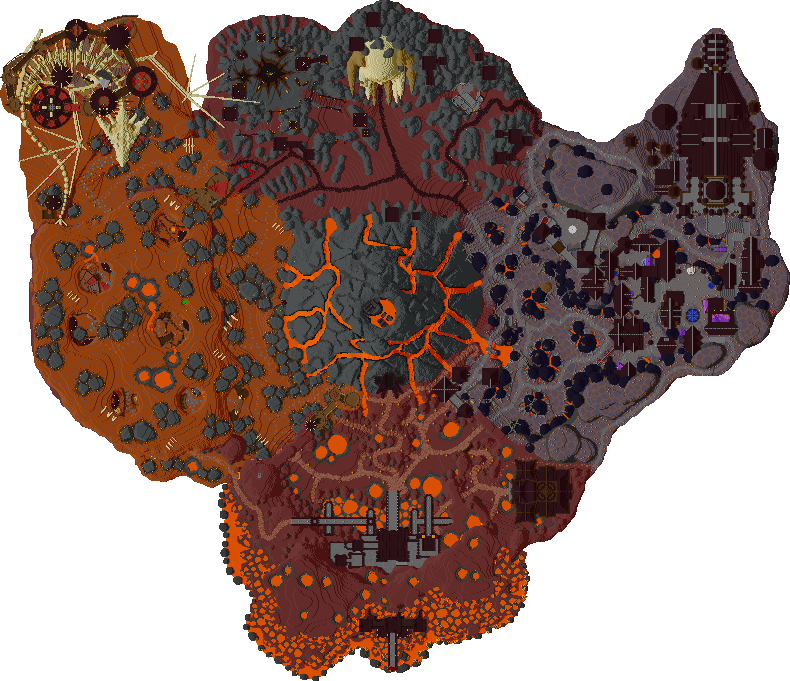
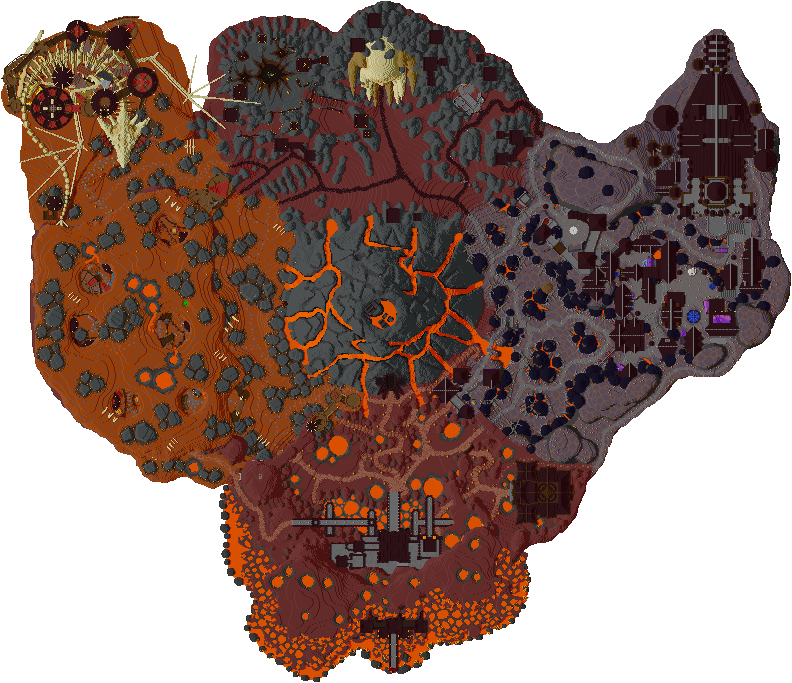
dungeons hub map + 1px margins

diff --git a/src/main/java/com/thatgravyboat/skyblockhud/handlers/MapHandler.java b/src/main/java/com/thatgravyboat/skyblockhud/handlers/MapHandler.java
@@ -66,12 +66,13 @@ public class MapHandler {
         HUB(0.5f, 494, 444, 294, 218, 294, 224, new ResourceLocation("skyblockhud", "maps/hub.png"), HubIcons.hubIcons),
         MUSHROOM(1.0f, 318, 316, -84, 605, -84, 612, new ResourceLocation("skyblockhud", "maps/mushroom.png"), Collections.emptyList()),
         SPIDERS(1.0f, 270, 238, 400, 362, 400, 364, new ResourceLocation("skyblockhud", "maps/spidersden.png"), Collections.emptyList()),
-        CRIMSON(0.5f, 790, 681, 752, 1070, 750, 1083, new ResourceLocation("skyblockhud", "maps/crimson.png"), Collections.emptyList()),
+        CRIMSON(0.5f, 792, 683, 752, 1070, 750, 1083, new ResourceLocation("skyblockhud", "maps/crimson.png"), Collections.emptyList()),
         BARN(1.5f, 135, 130, -82, 320, -81, 318, new ResourceLocation("skyblockhud", "maps/barn.png"), Collections.emptyList()),
         DWARVEN(0.5f, 409, 461, 206, 160, 202, 166, new ResourceLocation("skyblockhud", "maps/dwarven.png"), DwarvenIcons.dwarvenIcons),
         CRYSTAL(0.5f, 624, 624, -202, -215.7, -202, -212, new ResourceLocation("skyblockhud", "maps/crystal.png"), Collections.emptyList()),
         PARK(1f, 211, 230, 480, 133, 478, 134, new ResourceLocation("skyblockhud", "maps/park.png"), Collections.emptyList()),
-        THEEND(1f, 336, 281, 787, 403, 788, 406, new ResourceLocation("skyblockhud", "maps/end.png"), Collections.emptyList());
+        THEEND(1f, 338, 283, 787, 403, 788, 406, new ResourceLocation("skyblockhud", "maps/end.png"), Collections.emptyList()),
+        DN(.5f, 342, 436, 338, 186, 788, 406, new ResourceLocation("skyblockhud", "maps/dn.png"), Collections.emptyList());
 
         public float scaleFactor;
         public int width;

diff --git a/src/main/java/com/thatgravyboat/skyblockhud/config/SBHConfig.java b/src/main/java/com/thatgravyboat/skyblockhud/config/SBHConfig.java
@@ -316,8 +316,8 @@ public class SBHConfig extends Config {
 
         @Expose
         @ConfigOption(name = "Map Locations", desc = "Remove a location from this list if you would like the map to not show up in that location. This is so you can use other mods maps.")
-        @ConfigEditorDraggableList(exampleText = { "HUB", "BARN", "MUSHROOMDESERT", "GOLDMINE (No Map Yet)", "DEEPCAVERNS (No Map Yet)", "SPIDERSDEN", "PARK", "CRIMSON", "DUNGEONHUB (No Map Yet)", "JERRY (No Map Yet)", "THEEND", "DWARVENMINES", "CRYSTALHOLLOWS" })
-        public List<Integer> mapLocations = new ArrayList<>(Arrays.asList(0, 1, 2, 5, 6, 7, 10, 11));
+        @ConfigEditorDraggableList(exampleText = { "HUB", "BARN", "MUSHROOMDESERT", "GOLDMINE (No Map Yet)", "DEEPCAVERNS (No Map Yet)", "SPIDERSDEN", "PARK", "CRIMSON", "DUNGEONHUB", "JERRY (No Map Yet)", "THEEND", "DWARVENMINES", "CRYSTALHOLLOWS" })
+        public List<Integer> mapLocations = new ArrayList<>(Arrays.asList(0, 1, 2, 5, 6, 7, 8, 10, 11));
 
         @Expose
         @ConfigOption(name = "Mini-Map Position", desc = "Allows you to change the position of the Mini-Map.")

diff --git a/src/main/java/com/thatgravyboat/skyblockhud/location/Locations.java b/src/main/java/com/thatgravyboat/skyblockhud/location/Locations.java
@@ -111,9 +111,9 @@ public enum Locations {
     AURASLAB("auraslab", "Aura's Lab", LocationCategory.CRIMSON),
     COURTYARD("courtyard", "Courtyard", LocationCategory.CRIMSON),
     //DUNGEONS
-    DUNGEONHUB("dungeonhub", "Dungeon Hub", LocationCategory.DUNGEONHUB),
-    CATACOMBS("catacombs", "The Catacombs", LocationCategory.DUNGEONHUB),
-    CATACOMBSENTRANCE("catacombsentrance", "Catacombs Entrance", LocationCategory.DUNGEONHUB),
+    DUNGEONHUB("dungeonhub", "Dungeon Hub", LocationCategory.DN),
+    CATACOMBS("catacombs", "The Catacombs", LocationCategory.DN),
+    CATACOMBSENTRANCE("catacombsentrance", "Catacombs Entrance", LocationCategory.DN),
     //JERRYISLAND
     JERRYSWORKSHOP("jerrysworkshop", "Jerry's Workshop", LocationCategory.JERRY),
     JERRYPOND("jerrypond", "Jerry Pond", LocationCategory.JERRY),

diff --git a/src/main/java/com/thatgravyboat/skyblockhud/location/LocationCategory.java b/src/main/java/com/thatgravyboat/skyblockhud/location/LocationCategory.java
@@ -16,7 +16,7 @@ public enum LocationCategory {
     SPIDERSDEN("spiders_den", 99, Maps.SPIDERS),
     PARK("park", 51, Maps.PARK),
     CRIMSON("crimson_isle", 107, Maps.CRIMSON),
-    DUNGEONHUB("dungeonhub", 115),
+    DN("dungeonhub", 115, Maps.DN),
     JERRY("jerry", 59),
     THEEND("the_end", 123, Maps.THEEND),
     DWARVENMINES("dwarven_mines", 131, Maps.DWARVEN),
